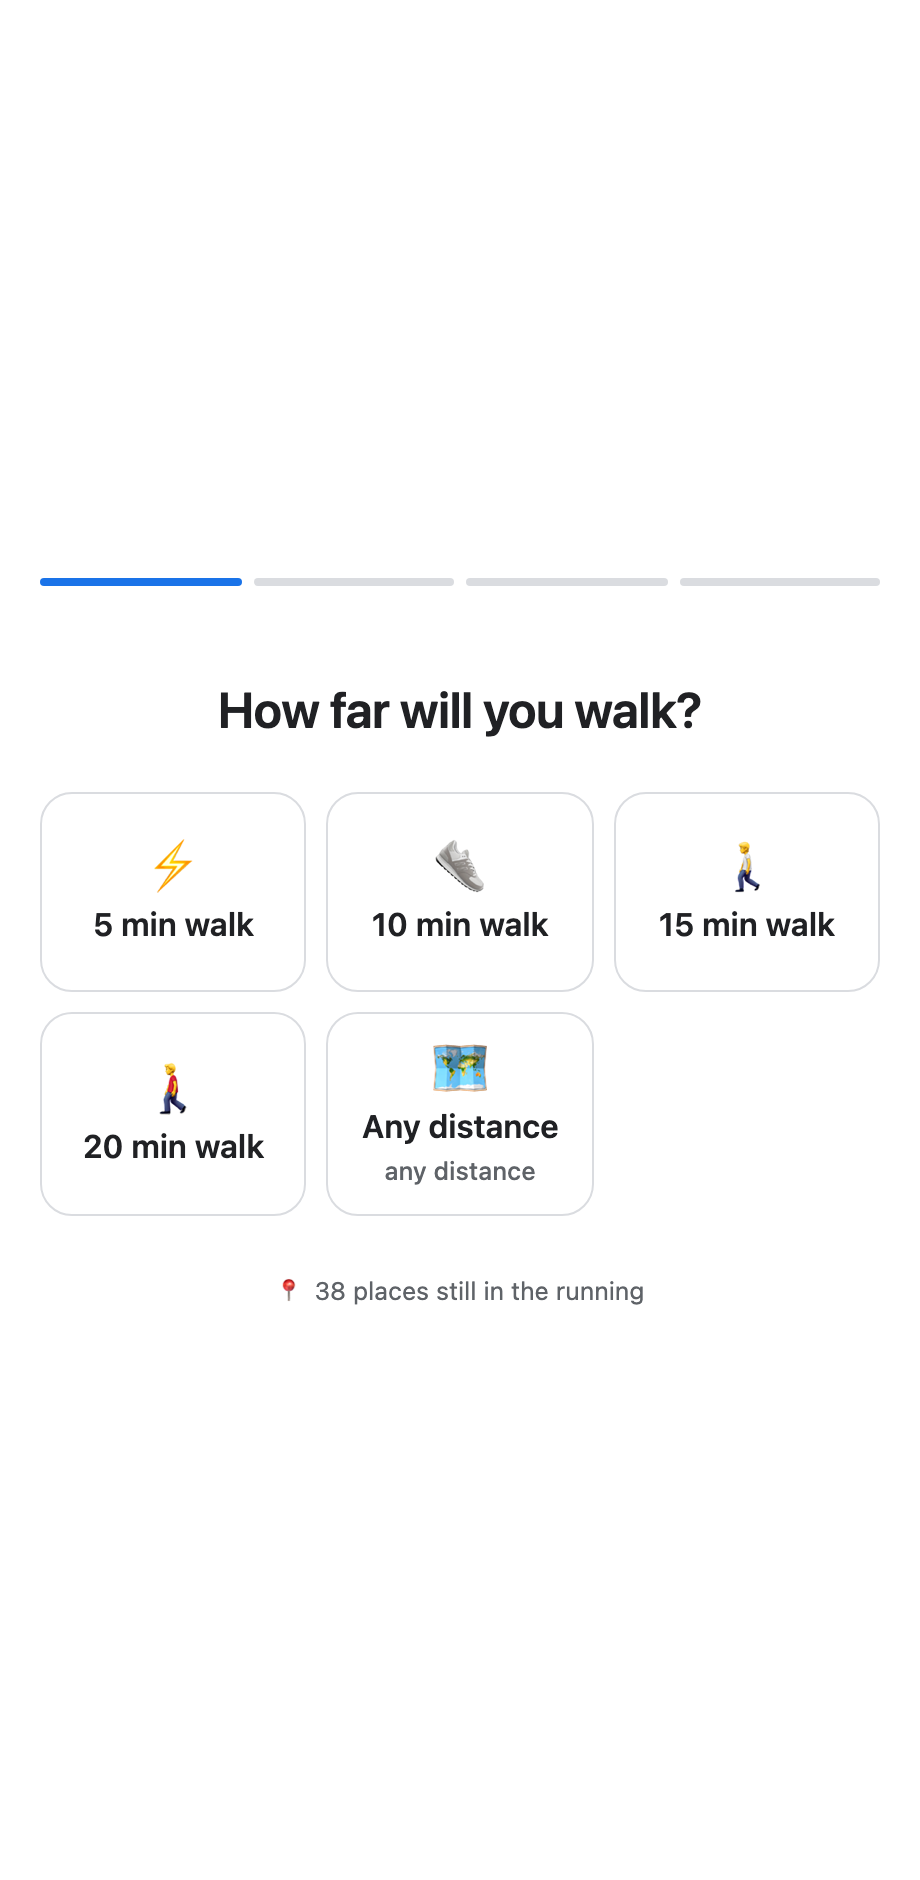
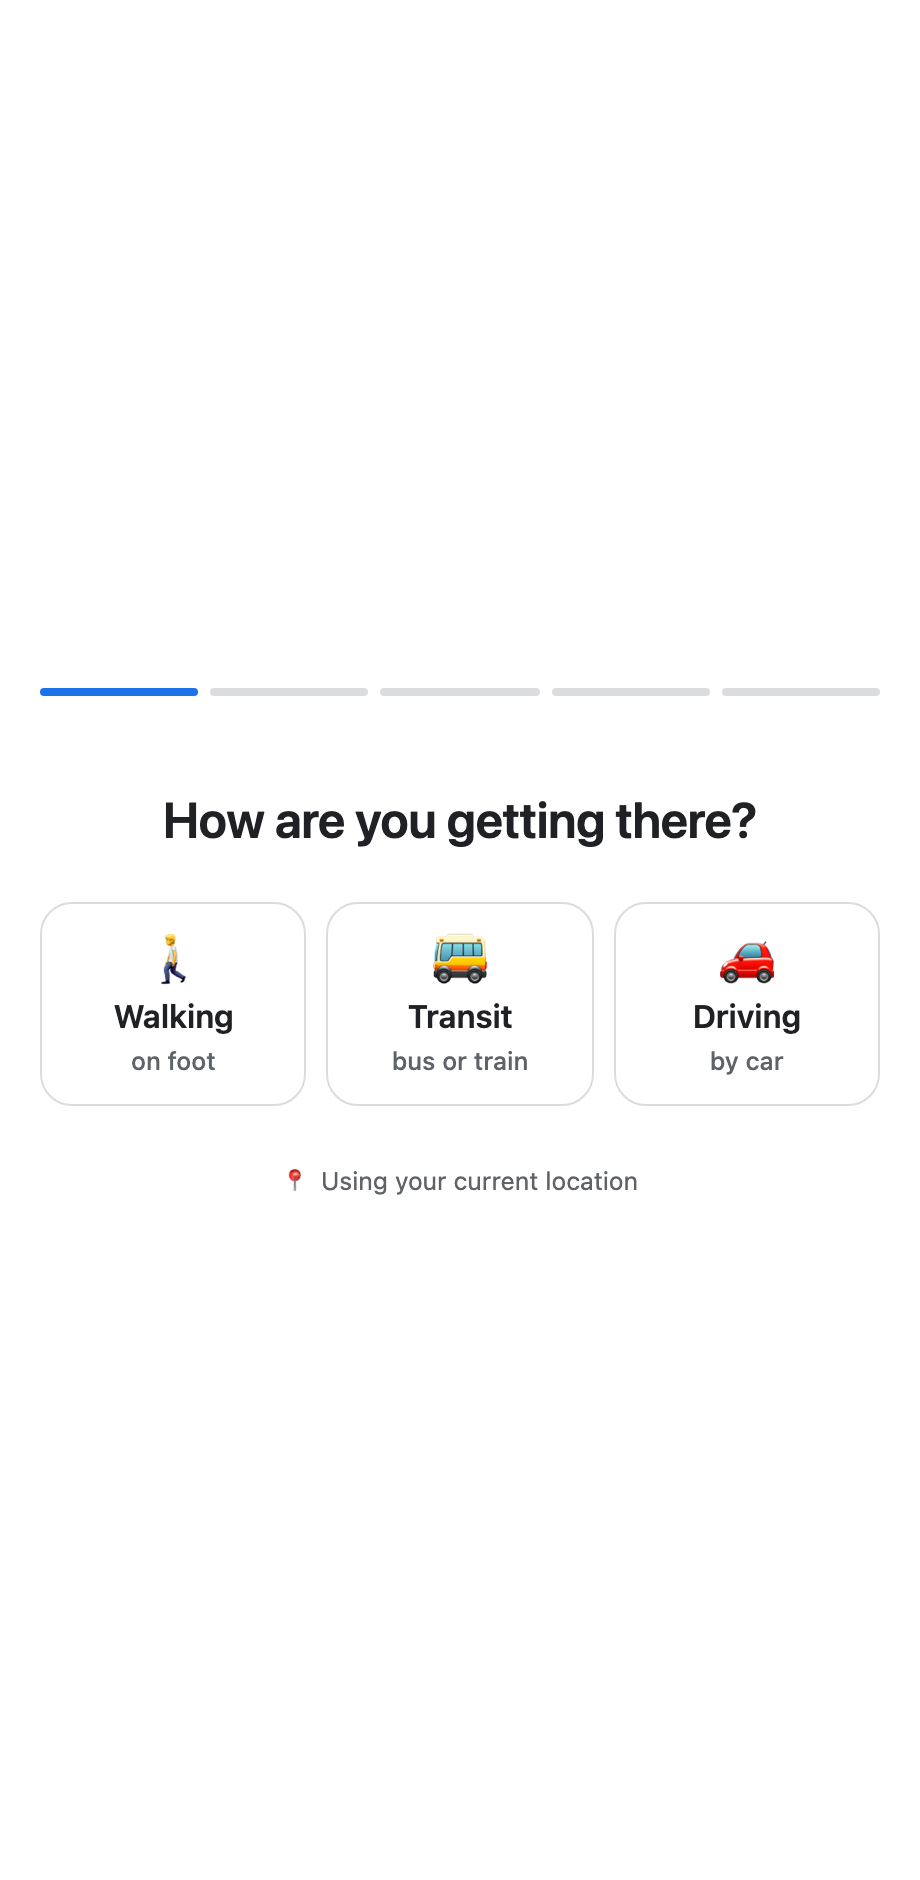
Re-record the demo for the travel-mode flow
The old GIF and stills predated the travel-mode question, so they opened on a screen
the app no longer shows first. Recorded a fresh run through Playwright: mode, distance,
budget, then the pick on a map with its route, photo and alternates.

diff --git a/README.md b/README.md
@@ -4,7 +4,7 @@ Picks somewhere to eat without making you type anything. You tap a few tiles, it
 down real restaurants around you, and shows the winner on a map with the route to get there.
 
 <p align="center">
-  <img src="docs/demo.gif" width="380" alt="Tapping through the quiz: questions narrow the field, then the pick appears on a map with the walking route and a photo" />
+  <img src="docs/demo.gif" width="380" alt="Tapping through the quiz: travel mode, then questions that narrow the field, then the pick on a map with its route and a photo" />
 </p>
 
 The point of the project is that **the quiz is built from reality, not hard-coded**. Before
@@ -12,9 +12,9 @@ it asks anything it looks up what's actually nearby, then only offers options th
 places behind them. If nothing is a 5-minute walk away, it never offers "5 min".
 
 <p align="center">
-  <img src="docs/screenshots/01-question.png" width="30%" alt="Distance question with tiles generated from nearby places" />
-  <img src="docs/screenshots/02-question.png" width="30%" alt="Budget question, narrowed to the price levels that exist" />
-  <img src="docs/screenshots/03-results.png" width="30%" alt="Result on a map with the walking route and a photo" />
+  <img src="docs/screenshots/01-question.png" width="30%" alt="First question: walking, transit or driving" />
+  <img src="docs/screenshots/02-question.png" width="30%" alt="Distance question, with only the thresholds that have places behind them" />
+  <img src="docs/screenshots/03-results.png" width="30%" alt="Result on a map with the route, a photo and nearby alternates" />
 </p>
 
 ## How it works
